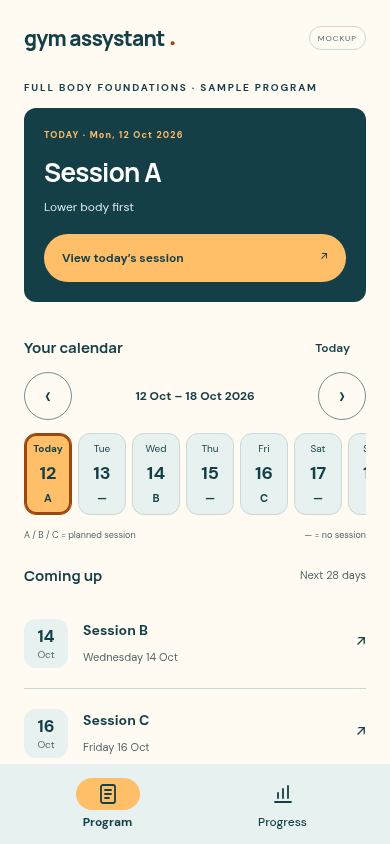
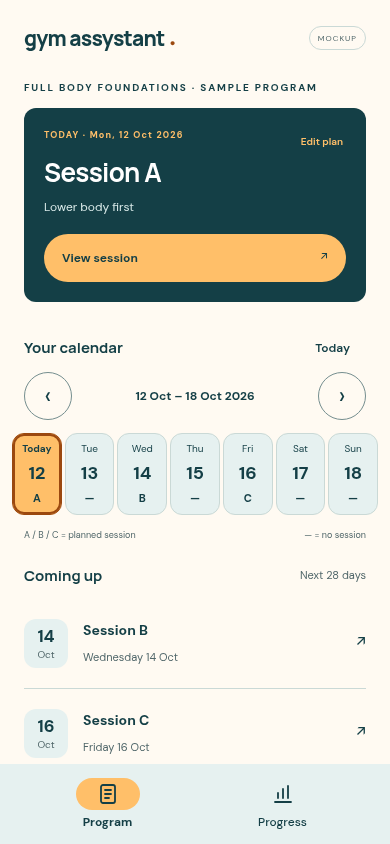
Update selected session card directly from a fitted calendar week

Changed region(s): [[0.0308, 0.4929, 0.9846, 0.6161], [0.2462, 0.2773, 0.4615, 0.3081], [0.7692, 0.154, 0.8615, 0.1848]]

diff --git a/mockup/app.js b/mockup/app.js
@@ -36,15 +36,17 @@ function showView(id, focusId) {
   if (focusId) byId(focusId).focus();
   document.querySelector('.screen-area').scrollTop = 0;
 }
-// GYM-008, GYM-016: today banner, weekly calendar, and upcoming agenda.
+// GYM-008, GYM-016: selected-date banner, fitted week, and upcoming agenda.
 function renderProgram() {
   todayDate = GymCalendar.today();
   renderCalendar();
 }
-function renderCalendar() {
-  const todayIndex = plannedIndex(todayDate);
-  const todaySession = todayIndex === null ? null : GymData.program.sessions[todayIndex];
-  byId('todayCard').innerHTML = `<p class="eyebrow">TODAY · ${fullDate(todayDate)}</p><h3>${todaySession?.name ?? 'No session planned'}</h3><p>${todaySession ? todaySession.focus : 'Your next planned session is listed below.'}</p>${todaySession ? '<button id="openTodaySession" class="calendar-start">View today’s session <span aria-hidden="true">↗</span></button>' : ''}`;
+function renderCalendar(keepEditorOpen = false) {
+  const selectedIndex = plannedIndex(selectedDate);
+  const planned = selectedIndex === null ? null : GymData.program.sessions[selectedIndex];
+  const dateLabel = `${selectedDate === todayDate ? 'TODAY · ' : ''}${fullDate(selectedDate)}`;
+  byId('sessionCard').innerHTML = `<p id="selectedDateLabel" class="eyebrow" aria-live="polite">${dateLabel}</p><h3>${planned?.name ?? 'No session planned'}</h3><p>${planned ? planned.focus : 'Use Edit plan to assign a session.'}</p><details id="planEditor" class="plan-editor" ${keepEditorOpen ? 'open' : ''}><summary>Edit plan</summary><label class="select-label" for="plannedSession">Session for this date</label><select id="plannedSession"><option value="none">No session planned</option>${GymData.program.sessions.map((item, index) => `<option value="${index}">${item.name} · ${item.focus.toLowerCase()}</option>`).join('')}</select></details>${planned ? `<button id="openSelectedSession" class="calendar-start">${selectedDate > todayDate ? 'Preview session' : 'View session'} <span aria-hidden="true">↗</span></button>` : ''}`;
+  byId('plannedSession').value = selectedIndex === null ? 'none' : String(selectedIndex);
   const dates = GymCalendar.week(displayedWeek);
   byId('weekLabel').textContent = `${GymCalendar.label(dates[0], { day: 'numeric', month: 'short' })} – ${GymCalendar.label(dates[6], { day: 'numeric', month: 'short', year: 'numeric' })}`;
   byId('calendarDays').innerHTML = dates.map(date => {
@@ -52,16 +54,10 @@ function renderCalendar() {
     const name = index === null ? 'No session planned' : GymData.program.sessions[index].name;
     return `<button class="calendar-day ${date === todayDate ? 'is-today' : ''}" data-date="${date}" aria-label="${fullDate(date)}${date === todayDate ? ', today' : ''}: ${name}" aria-pressed="${date === selectedDate}"><span>${date === todayDate ? 'Today' : GymCalendar.label(date, { weekday: 'short' })}</span><strong>${GymCalendar.label(date, { day: 'numeric' })}</strong><small>${index === null ? '—' : String.fromCharCode(65 + index)}</small></button>`;
   }).join('');
-  byId('selectedDateLabel').textContent = `${selectedDate === todayDate ? 'TODAY · ' : ''}${fullDate(selectedDate)}`;
-  const selectedIndex = plannedIndex(selectedDate);
-  byId('plannedSession').value = selectedIndex === null ? 'none' : String(selectedIndex);
-  byId('openPlannedSession').hidden = selectedIndex === null;
-  byId('openPlannedSession').textContent = selectedDate > todayDate ? 'Preview session' : 'Open session';
   const upcoming = GymCalendar.upcoming(todayDate, GymData.schedule, dateOverrides);
   byId('upcomingSessions').innerHTML = upcoming.length ? upcoming.map(item => `<button class="exercise-card upcoming-card" data-planned-date="${item.date}"><span class="agenda-date"><strong>${GymCalendar.label(item.date, { day: 'numeric' })}</strong><small>${GymCalendar.label(item.date, { month: 'short' })}</small></span><span><strong>${GymData.program.sessions[item.sessionIndex].name}</strong><small>${GymCalendar.label(item.date, { weekday: 'long', day: 'numeric', month: 'short' })}</small></span><span class="chevron" aria-hidden="true">↗</span></button>`).join('') : '<p class="empty-calendar">No sessions planned in the next 28 days.</p>';
 }
 function openSession(index, date) {
-  byId('planningDialog').close();
   sessionDate = date;
   currentSession = getSession(index, date);
   renderSession();
@@ -192,18 +188,18 @@ byId('calendarDays').addEventListener('click', event => {
   if (!day) return;
   selectedDate = day.dataset.date;
   renderCalendar();
-  byId('planningDialog').showModal();
+  byId('calendarDays').querySelector(`[data-date="${selectedDate}"]`).focus();
+});
+byId('sessionCard').addEventListener('change', event => {
+  if (event.target.id !== 'plannedSession') return;
+  dateOverrides[selectedDate] = event.target.value === 'none' ? null : Number(event.target.value);
+  renderCalendar(true);
   byId('plannedSession').focus();
 });
-byId('plannedSession').addEventListener('change', event => {
-  dateOverrides[selectedDate] = event.target.value === 'none' ? null : Number(event.target.value);
-  renderCalendar();
-});
-byId('openPlannedSession').addEventListener('click', () => { const index = plannedIndex(selectedDate); if (index !== null) openSession(index, selectedDate); });
-byId('todayCard').addEventListener('click', event => {
-  if (!event.target.closest('#openTodaySession')) return;
-  const index = plannedIndex(todayDate);
-  if (index !== null) openSession(index, todayDate);
+byId('sessionCard').addEventListener('click', event => {
+  if (!event.target.closest('#openSelectedSession')) return;
+  const index = plannedIndex(selectedDate);
+  if (index !== null) openSession(index, selectedDate);
 });
 byId('upcomingSessions').addEventListener('click', event => {
   const card = event.target.closest('[data-planned-date]');
@@ -211,8 +207,8 @@ byId('upcomingSessions').addEventListener('click', event => {
   selectedDate = card.dataset.plannedDate;
   displayedWeek = GymCalendar.week(selectedDate)[0];
   renderCalendar();
-  byId('planningDialog').showModal();
-  byId('plannedSession').focus();
+  if (byId('openSelectedSession')) byId('openSelectedSession').focus();
+  document.querySelector('.screen-area').scrollTop = 0;
 });
 ['previousWeek', 'nextWeek'].forEach(id => byId(id).addEventListener('click', () => {
   displayedWeek = GymCalendar.addDays(displayedWeek, id === 'previousWeek' ? -7 : 7);
@@ -242,12 +238,6 @@ function stopSession() {
 }
 byId('stopSession').addEventListener('click', stopSession);
 byId('stopExerciseSession').addEventListener('click', stopSession);
-// GYM-006, GYM-016: native planning dialog supports Escape and explicit dismissal.
-byId('closePlanning').addEventListener('click', () => byId('planningDialog').close());
-byId('planningDialog').addEventListener('click', event => {
-  const bounds = event.currentTarget.getBoundingClientRect();
-  if (event.target === event.currentTarget && (event.clientX < bounds.left || event.clientX > bounds.right || event.clientY < bounds.top || event.clientY > bounds.bottom)) event.currentTarget.close();
-});
 // GYM-010
 byId('progressNav').addEventListener('click', () => { renderProgress(); showView('progress', 'progressNav'); });
 byId('progressExercise').innerHTML = GymData.catalog.map((item, index) => `<option value="${index}">${item.name}</option>`).join('');

diff --git a/mockup/style.css b/mockup/style.css
@@ -158,18 +158,18 @@ button:active { filter: brightness(.94); }
 input, select { min-height: 48px; }
 input::placeholder { color: var(--on-surface-variant); opacity: 1; }
 /* GYM-016: today's plan, selectable week, date assignment, and future agenda. */
-.today-card { background: var(--primary); color: var(--on-primary); padding: 20px; border-radius: var(--shape-medium); margin-bottom: 22px; }
-.today-card .eyebrow { color: var(--accent); font-size: 9px; letter-spacing: 1.2px; }
-.today-card h3 { font-size: 26px; letter-spacing: -.7px; }
-.today-card p:not(.eyebrow) { color: #d8e9e8; font-size: 12px; margin: 8px 0 16px; }
+.session-card { position: relative; background: var(--primary); color: var(--on-primary); padding: 20px; border-radius: var(--shape-medium); margin-bottom: 22px; }
+.session-card .eyebrow { padding-right: 72px; color: var(--accent); font-size: 9px; letter-spacing: 1.2px; }
+.session-card h3 { font-size: 26px; letter-spacing: -.7px; }
+.session-card p:not(.eyebrow) { color: #d8e9e8; font-size: 12px; margin: 8px 0 16px; }
 .calendar-start, #startSession { display: flex; align-items: center; justify-content: space-between; gap: 12px; width: 100%; min-height: 48px; border: 0; border-radius: var(--shape-full); padding: 12px 18px; background: var(--accent); color: var(--on-surface); font-size: 12px; font-weight: 700; }
 .calendar-heading { display: flex; align-items: center; justify-content: space-between; gap: 12px; }
 .calendar-today { min-height: 48px; border: 0; border-radius: var(--shape-full); padding: 8px 16px; background: transparent; color: var(--primary); font-size: 12px; font-weight: 600; }
 .week-controls { display: flex; align-items: center; justify-content: space-between; gap: 8px; margin: 0 0 10px; }
 .week-controls strong { font-size: 12px; text-align: center; }
 .calendar-arrow { width: 48px; height: 48px; padding: 0; border: 1px solid var(--outline); border-radius: 50%; background: transparent; color: var(--primary); font-size: 25px; }
-.calendar-days { display: flex; gap: 6px; max-width: 100%; overflow-x: auto; padding: 3px 0 10px; scrollbar-width: thin; scroll-snap-type: x proximity; }
-.calendar-day { display: flex; flex: 0 0 48px; flex-direction: column; align-items: center; justify-content: center; gap: 6px; min-height: 82px; border: 1px solid var(--outline-variant); border-radius: var(--shape-medium); background: var(--surface-container); padding: 7px 3px; scroll-snap-align: start; }
+.calendar-days { display: grid; grid-template-columns: repeat(7, minmax(0, 1fr)); gap: 3px; width: calc(100% + 24px); margin-inline: -12px; padding: 3px 0 10px; overflow: hidden; }
+.calendar-day { display: flex; min-width: 0; flex-direction: column; align-items: center; justify-content: center; gap: 6px; min-height: 82px; border: 1px solid var(--outline-variant); border-radius: var(--shape-medium); background: var(--surface-container); padding: 7px 3px; }
 .calendar-day span { font-size: 10px; }
 .calendar-day strong { font-size: 18px; font-variant-numeric: tabular-nums; }
 .calendar-day small { font-size: 11px; font-weight: 700; }
@@ -177,11 +177,6 @@ input::placeholder { color: var(--on-surface-variant); opacity: 1; }
 .calendar-day.is-today { outline: 2px solid var(--focus); outline-offset: -3px; }
 .calendar-day.is-today span { font-weight: 700; }
 .calendar-legend { display: flex; justify-content: space-between; gap: 10px; color: var(--on-surface-variant); font-size: 9px; margin: 4px 0 18px; }
-.date-plan { background: var(--surface-container); border-radius: var(--shape-medium); padding: 16px; }
-.date-plan .eyebrow { font-size: 9px; letter-spacing: 1px; }
-.date-plan select { background: var(--surface-bright); font-size: 12px; }
-.calendar-open { margin-top: 12px; width: 100%; min-height: 48px; border: 0; border-radius: var(--shape-full); padding: 12px; background: var(--primary); color: var(--on-primary); font-size: 12px; font-weight: 600; }
-.date-plan .field-help { margin-bottom: 0; font-size: 10px; }
 .agenda-date { display: flex; flex-shrink: 0; width: 44px; min-height: 49px; flex-direction: column; align-items: center; justify-content: center; border-radius: var(--shape-medium); background: var(--surface-container); }
 .agenda-date strong { font-size: 17px; margin-bottom: 1px; }
 .agenda-date small { font-size: 10px; }
@@ -189,10 +184,15 @@ input::placeholder { color: var(--on-surface-variant); opacity: 1; }
 
 /* GYM-017: explicit session start action before exercises. */
 .session-start { margin-bottom: 22px; }
-#planningDialog .date-plan { background: transparent; padding: 0; }
 /* GYM-017: lifecycle actions are accessible from session and exercise screens. */
 .session-actions { display: flex; align-items: center; gap: 10px; }
 .session-actions #startSession { width: auto; flex: 1; }
 .session-stop { min-height: 48px; min-width: 96px; border: 1px solid var(--outline); border-radius: var(--shape-full); padding: 10px 16px; background: transparent; color: var(--primary); font-size: 12px; font-weight: 600; }
 .exercise-navigation { display: flex; align-items: center; justify-content: space-between; gap: 12px; margin-bottom: 18px; }
 .exercise-navigation .back { margin-bottom: 0; }
+
+/* GYM-016: optional date assignment expands inside the existing banner. */
+.plan-editor summary { position: absolute; top: 9px; right: 12px; display: flex; align-items: center; justify-content: center; min-width: 64px; min-height: 48px; padding: 8px; border-radius: var(--shape-full); color: var(--accent); font-size: 10px; font-weight: 600; cursor: pointer; }
+.plan-editor summary::marker { content: ''; }
+.plan-editor summary:focus-visible, .plan-editor select:focus-visible { outline: 3px solid var(--accent); outline-offset: 2px; }
+.plan-editor select { margin-bottom: 16px; background: var(--surface-bright); font-size: 12px; }

diff --git a/mockup/index.html b/mockup/index.html
@@ -6,7 +6,7 @@
 <main class="phone" data-req="GYM-006"><header data-req="GYM-007"><span class="wordmark">gym assystant<span>●</span></span><span class="badge">MOCKUP</span></header>
 <div class="screen-area">
 <section id="program" data-view data-req="GYM-008 GYM-016"><p class="eyebrow">FULL BODY FOUNDATIONS · SAMPLE PROGRAM</p>
-<div id="todayCard" class="today-card" data-req="GYM-016"></div>
+<div id="sessionCard" class="session-card" aria-label="Selected training session" data-req="GYM-016"></div>
 <div class="calendar-heading" data-req="GYM-016"><h3>Your calendar</h3><button id="calendarToday" class="calendar-today">Today</button></div>
 <div class="week-controls" data-req="GYM-016"><button id="previousWeek" class="calendar-arrow" aria-label="Previous week">‹</button><strong id="weekLabel" aria-live="polite"></strong><button id="nextWeek" class="calendar-arrow" aria-label="Next week">›</button></div>
 <div id="calendarDays" class="calendar-days" role="group" aria-label="Week calendar" data-req="GYM-016"></div>
@@ -30,7 +30,7 @@
 <button id="programNav" aria-current="page"><span class="nav-icon" aria-hidden="true"><svg viewBox="0 0 24 24"><rect x="5" y="3" width="14" height="18" rx="2"/><path d="M9 8h6M9 12h6M9 16h4"/></svg></span><span>Program</span></button>
 <button id="progressNav"><span class="nav-icon" aria-hidden="true"><svg viewBox="0 0 24 24"><path d="M4 20h16M7 16v-5M12 16V7M17 16V4"/></svg></span><span>Progress</span></button>
 </nav></main>
-<dialog id="planningDialog" aria-labelledby="selectedDateLabel" data-req="GYM-006 GYM-016"><button id="closePlanning" class="back">← Back to calendar</button><div class="date-plan" data-req="GYM-016"><p id="selectedDateLabel" class="eyebrow"></p><label class="select-label" for="plannedSession">Session for this date</label><select id="plannedSession"><option value="none">No session planned</option><option value="0">Session A · lower body first</option><option value="1">Session B · push first</option><option value="2">Session C · pull first</option></select><button id="openPlannedSession" class="calendar-open">Open session</button><p class="field-help">Change a date to explore your plan. Edits reset on reload.</p></div></dialog>
+
 <dialog id="videoDialog" data-req="GYM-002 GYM-006"><button id="closeVideo" class="back">← Back to exercise</button><div class="video-placeholder"><span>▷</span><p>VIDEO PLACEHOLDER</p></div><h2 id="videoTitle"></h2><p>This is where an in-app video will show the machine and movement.</p><p class="muted">No playable video in this mockup. Video sources will be chosen when we define the app requirements.</p></dialog>
 <script src="data.js"></script><script src="calendar.js"></script><script src="metrics.js"></script><script src="timers.js"></script><script src="app.js"></script>
 </body></html>

diff --git a/docs/spec.md b/docs/spec.md
@@ -24,8 +24,8 @@ Follow a training program made of multiple training sessions. During each sessio
 | GYM-012 | Time execution and recovery separately. | Execution counts up; recovery counts down from a user-editable whole number of seconds (1–3600; default 90). Each has start/resume, pause, and reset. Recovery stops at zero and announces completion. Timers use elapsed clock time, retain independent state when switching modes/views, and belong to the selected exercise occurrence. Reload resets them. No automatic set completion or automatic transition. |
 | GYM-013 | Use an inviting, evidence-informed brand. | Retain the exact name gym assystant. Use the promise “Your pace. Your progress.”, clear next actions, personal progress feedback, and neutral language for rest or unfinished sets. Apply the sunrise-amber, deep-teal, and ivory palette, wordmark, and tone documented in branding-research.md. Warm accents emphasize action, calmer teal surfaces support logging/recovery, and text/control contrast remains readable. No shame, body-transformation promises, streak pressure, or unsupported claims that colors increase exercise adherence. |
 | GYM-014 | Track warm-up reps alongside working sets. | Add/remove warm-up sets; edit nonnegative whole-number reps and nonnegative finite kg; mark each done/undone. Show warm-up and working sets together in one list, with a visible type label on every row. Keep their data distinct, retain them when navigating, and exclude warm-ups from working-set completion, records, and all GYM-010 metrics. |
-| GYM-015 | Follow Android Material 3 UI conventions. | Use consistent shape tokens, pill-shaped action buttons, joined segmented selectors, rounded cards and dialog, an icon-and-label bottom navigation bar with a selected indicator, and at least 48 × 48 CSS-pixel touch areas in the phone mockup. Keep navigation outside the scrolling content. Real Android delivery must use dp and native Material components. Document official guidance in android-ui.md. |
-| GYM-016 | Plan sessions in a training calendar. | Program home shows today’s local date and its assigned session (or “No session planned”), a selectable week with previous/next/Today controls, and the next three scheduled sessions with dates. Scheduled days identify their session; today and the selected date are distinct. Selecting a date shows its plan and allows assigning A/B/C or no session. The sample repeats A on Monday, B on Wednesday, C on Friday; individual-date edits override that sample in memory. Keep the top today banner, week calendar, and upcoming agenda on Program home; remove redundant inline date-details and template lists. Selecting a day opens a planning dialog for assignment and session access. Opening a scheduled date uses an isolated session occurrence so edits never copy to other dates or templates. Future dates say “Preview session”; today/past dates say “Open session”. Reload resets edits. |
+| GYM-015 | Follow Android Material 3 UI conventions. | Use consistent shape tokens, pill-shaped action buttons, joined segmented selectors, rounded cards and dialog, an icon-and-label bottom navigation bar with a selected indicator, and at least 48 × 48 CSS-pixel touch areas for standard controls in the phone mockup. Calendar date cells adapt their width to fit seven columns, retaining at least 48 pixels of height. Keep navigation outside the scrolling content. Real Android delivery must use dp and native Material components. Document official guidance in android-ui.md. |
+| GYM-016 | Plan sessions in a training calendar. | Program home initially selects today. Selecting a calendar date updates the existing top card with that date, its assigned session (or “No session planned”), and a button opening that dated session; no popup opens. Previous/next week and Today update the same card. All seven Monday–Sunday dates fit the available screen width in one row without horizontal scrolling. Today and the selected date remain distinct. Upcoming-session taps select that date in the same card. An Edit plan control expands assignment inline inside the top card, allowing A/B/C or no session. The sample repeats A on Monday, B on Wednesday, C on Friday; individual-date edits override it in memory. Dated logs stay isolated. Future dates say “Preview session”; today/past dates say “View session”. Reload resets edits. |
 | GYM-017 | Start, continue, stop, and resume a session. | Each dated session has Ready, Active, or Stopped state. Start session changes Ready to Active and opens the first exercise with unfinished working sets. Continue session keeps Active and reopens the next unfinished exercise; all sets logged allows reviewing the first exercise. Stop session is available on session and exercise screens while Active; it changes to Stopped, pauses both timers for all exercises in that occurrence, and retains sets, warm-ups, and setup notes. Resume session changes Stopped to Active and reopens the next unfinished exercise without clearing data. Stopped sessions cannot run timers until resumed. Resume does not automatically restart timers; timer start remains manual. Future dates retain preview context. State is isolated by date; reload resets it. No session history is saved. |
 
 ## Information model and navigation
@@ -57,7 +57,7 @@ Manual stopwatch and countdown controls are mockup choices, pending exploration.
 
 Today follows the browser/device local date. The week starts Monday. Civil-date calculations preserve calendar dates across daylight-saving changes and month/year boundaries. The weekly sample is an exploration assumption, not a recommended training frequency. Editing a date changes only that date; there is no drag/drop, automatic rescheduling, scheduling notification, or integration with an external calendar.
 
-The week strip scrolls horizontally on narrow phones so all seven dates retain Android-sized touch targets. The agenda considers future dates strictly after today and shows up to three planned occurrences within the next 28 days. If there are none, show a clear empty state. Past plans are not declared completed; scheduling and actual performance are different concepts. Finishing working sets does not persist history or automatically reschedule the plan.
+The week is a seven-column grid with all dates visible. On narrow previews, date cells may be less than 48 CSS pixels wide to satisfy the requested fit; they retain generous height and never overlap. Standard controls keep their existing touch targets. The agenda considers future dates strictly after today and shows up to three planned occurrences within the next 28 days. If there are none, show a clear empty state. Past plans are not declared completed; scheduling and actual performance are different concepts. Finishing working sets does not persist history or automatically reschedule the plan.
 
 ## Deferred decisions and exclusions
 

diff --git a/docs/traceability.md b/docs/traceability.md
@@ -19,7 +19,7 @@ Revision 3. All Android delivery is **not started**. “Covered” below means t
 | GYM-013 | [branding-research.md](branding-research.md); wordmarks/copy in `index.html`, theme in `style.css`, timer copy in `app.js` | Five exercise/motivation sources plus three color/emotion sources; screenshot/copy and color-contrast review | Brand direction delivered and applied |
 | GYM-014 | `app.js`: `setRow`, `renderSets`, add/remove/update/toggle warmups; CSS: labeled warm-up rows; `metrics.js`: exclusion | Browser: shared list, labels, retained reps/weight, add/remove, count isolation; logic: warmups excluded | Covered |
 | GYM-015 | [android-ui.md](android-ui.md); CSS theme/target/nav/selector rules; `index.html`: bottom nav; `app.js`: `showView` | Official Android sources; browser: navigation stays at bottom, interactive targets ≥48px | Material-style browser approximation; native UI deferred |
-| GYM-016 | `calendar.js`: `today`, `week`, `plan`, `upcoming`; `data.js`: sample schedule; `app.js`: `renderCalendar`, `getSession`, date/open handlers; `index.html`: today/week/agenda, `planningDialog` | Logic: civil dates, week boundaries, one-date overrides, upcoming/empty state; browser: today/future assignments and isolated dated logs | Interactive calendar covered; recurrence editor and persistence deferred |
+| GYM-016 | `calendar.js`: `today`, `week`, `plan`, `upcoming`; `data.js`: sample schedule; `app.js`: `renderCalendar`, `getSession`, date/open handlers; `index.html`: `sessionCard`, week/agenda; `app.js`: inline `planEditor` | Logic: civil dates, week boundaries, one-date overrides, upcoming/empty state; browser: date taps update the top card without a popup; all seven dates fit; inline assignments and isolated dated logs | Interactive calendar covered; recurrence editor and persistence deferred |
 | GYM-017 | `app.js`: `renderSession`, `startSession` handler, `stopSession`, per-date lifecycle state; `index.html`: session start action | Browser: Start/Continue select unfinished exercise; Stop pauses all occurrence timers and preserves entries; Resume retains them; stopped timers are disabled; dates and reload isolate/reset state | Covered in mockup |
 
 Source filenames above are under `mockup/`. Meaningful automated checks live in [logic.test.cjs](../tests/logic.test.cjs) and [browser.cjs](../tests/browser.cjs). `package.json` and its lockfile support those checks only; the mockup itself has no build or runtime package dependency.
@@ -38,7 +38,7 @@ Source filenames above are under `mockup/`. Meaningful automated checks live in 
 | Wordmark, promise, copy, palette and typography | GYM-007, GYM-013 |
 | Responsive shell, disclosures, keyboard focus and dialog dismissal | GYM-006 |
 | Bottom navigation, common shape tokens, action hierarchy, target dimensions | GYM-008, GYM-010, GYM-015 |
-| Today card, week strip, date assignment and upcoming agenda; per-date session/timer state | GYM-016 |
+| Selected-date card, fitted week, inline date assignment and upcoming agenda; per-date session/timer state | GYM-016 |
 | Session Start/Continue/Stop/Resume actions and isolated lifecycle state | GYM-017 |
 | Research briefs and evidence boundaries | GYM-011, GYM-013, GYM-015 |
 
@@ -53,3 +53,5 @@ Revision 2, 2026-10-12: eight logic tests passed for numerical metrics, matched 
 Palette update, 2026-10-12: GYM-013 now uses sunrise amber, deep teal, and ivory, informed by the 2025 systematic review and two supporting color studies/reviews. Checked text pairs exceed 4.5:1 and essential outline/chart pairs exceed 3:1. Existing Chromium checks passed; all four preview screenshots were refreshed. No functional scope was added.
 
 Revision 3, 2026-10-12: 12 logic tests passed, including week/year/leap-day/DST calculations, date overrides, and upcoming/empty agenda rules. The Chromium check passed for today/future planning, dialog assignment, date-isolated logs, Start/Continue/Stop/Resume, pausing all exercise timers, retained entries, stopped timer controls, navigation, and reload reset. Mobile layouts and touch targets were checked; program, session, exercise, progress, and desktop previews were refreshed and reviewed.
+
+Calendar selection update, 2026-10-12: Chromium checks passed for direct top-card updates without a calendar popup, selected-date session navigation, inline assignment, empty days, Today/week/agenda navigation, and a seven-day row fully visible without scrolling at 320/360/390/430px. Standard controls retain 48px targets; narrow calendar cells follow the documented width exception. Previews were refreshed and reviewed.

diff --git a/README.md b/README.md
@@ -10,7 +10,7 @@ python3 -m http.server 8080
 
 Visit http://localhost:8080/mockup/ . On a phone, use the computer's LAN address and the same port.
 
-Use the Program calendar to see today’s planned session and upcoming workouts. Browse weeks and tap a date to assign Session A/B/C or no session in its planning dialog. The editable sample repeats A on Monday, B on Wednesday, and C on Friday. Open a dated session, then use Start session to begin with its first unfinished exercise. Use Continue while active, Stop to pause the session and its timers, and Resume to keep going with your entries retained. Logs and timers are isolated between dates. Log reps and weight in the shared working/warm-up set list, edit seat notes, and try the execution stopwatch and recovery countdown. The Program / Progress navigation stays at the bottom. Progress shows explicitly fictional history and excludes current edits. Video access is a secondary placeholder. Everything resets on reload.
+Use the Program calendar to see today’s planned session and upcoming workouts. All seven days fit across the screen. Tap a date to update the top card, then open that date’s session. Edit plan expands assignment inside the card so you can choose Session A/B/C or no session. The editable sample repeats A on Monday, B on Wednesday, and C on Friday. Open a dated session, then use Start session to begin with its first unfinished exercise. Use Continue while active, Stop to pause the session and its timers, and Resume to keep going with your entries retained. Logs and timers are isolated between dates. Log reps and weight in the shared working/warm-up set list, edit seat notes, and try the execution stopwatch and recovery countdown. The Program / Progress navigation stays at the bottom. Progress shows explicitly fictional history and excludes current edits. Video access is a secondary placeholder. Everything resets on reload.
 
 The preview uses Material 3 conventions for shapes, selection, bottom navigation, and touch targets. It is a browser prototype, not a native Android app. No build step or runtime package dependencies are needed. Google Fonts are optional; system fonts are the fallback.
 

diff --git a/docs/android-ui.md b/docs/android-ui.md
@@ -8,6 +8,6 @@ Use filled or tonal actions for timer start/resume and adding warm-ups, lower-em
 
 Program and Progress are bottom navigation destinations, with persistent labels, 24-pixel icons, a rounded selected indicator, and an 80-pixel bar outside the scroll area. Keep the top app identity and bottom navigation visible while the content scrolls. Using two destinations follows the user's requested scope; the mockup adds no filler destinations. [Android: Navigation bar](https://developer.android.com/develop/ui/compose/components/navigation-bar)
 
-Interactive targets have a minimum of 48 × 48 CSS pixels for this phone-sized preview, including completion buttons, timer controls, and selectors. Native Android implementation must measure in dp and use platform accessibility semantics. The preview's CSS pixels are a design approximation rather than a physical-size guarantee on arbitrary browsers. [Android: Touch target size](https://support.google.com/accessibility/android/answer/7101858)
+Standard interactive targets have a minimum of 48 × 48 CSS pixels for this phone-sized preview, including completion buttons, timer controls, and selectors. Per the user’s request to show the entire week without horizontal scrolling, calendar date cells use seven equal columns: their width can be below 48 CSS pixels on narrow previews, while height stays at least 48 pixels. This is a documented prototype exception; touch areas do not overlap. Native Android implementation must measure in dp and use platform accessibility semantics. The preview's CSS pixels are a design approximation rather than a physical-size guarantee on arbitrary browsers. [Android: Touch target size](https://support.google.com/accessibility/android/answer/7101858)
 
 The future Android app should use native Material components and verify screen-reader behavior, display/font scaling, insets, and system Back. These checks are deferred with Android implementation. The mockup already provides focus states, labels, programmatic selected/pressed states, textual warm-up labels, and a native browser dialog.
